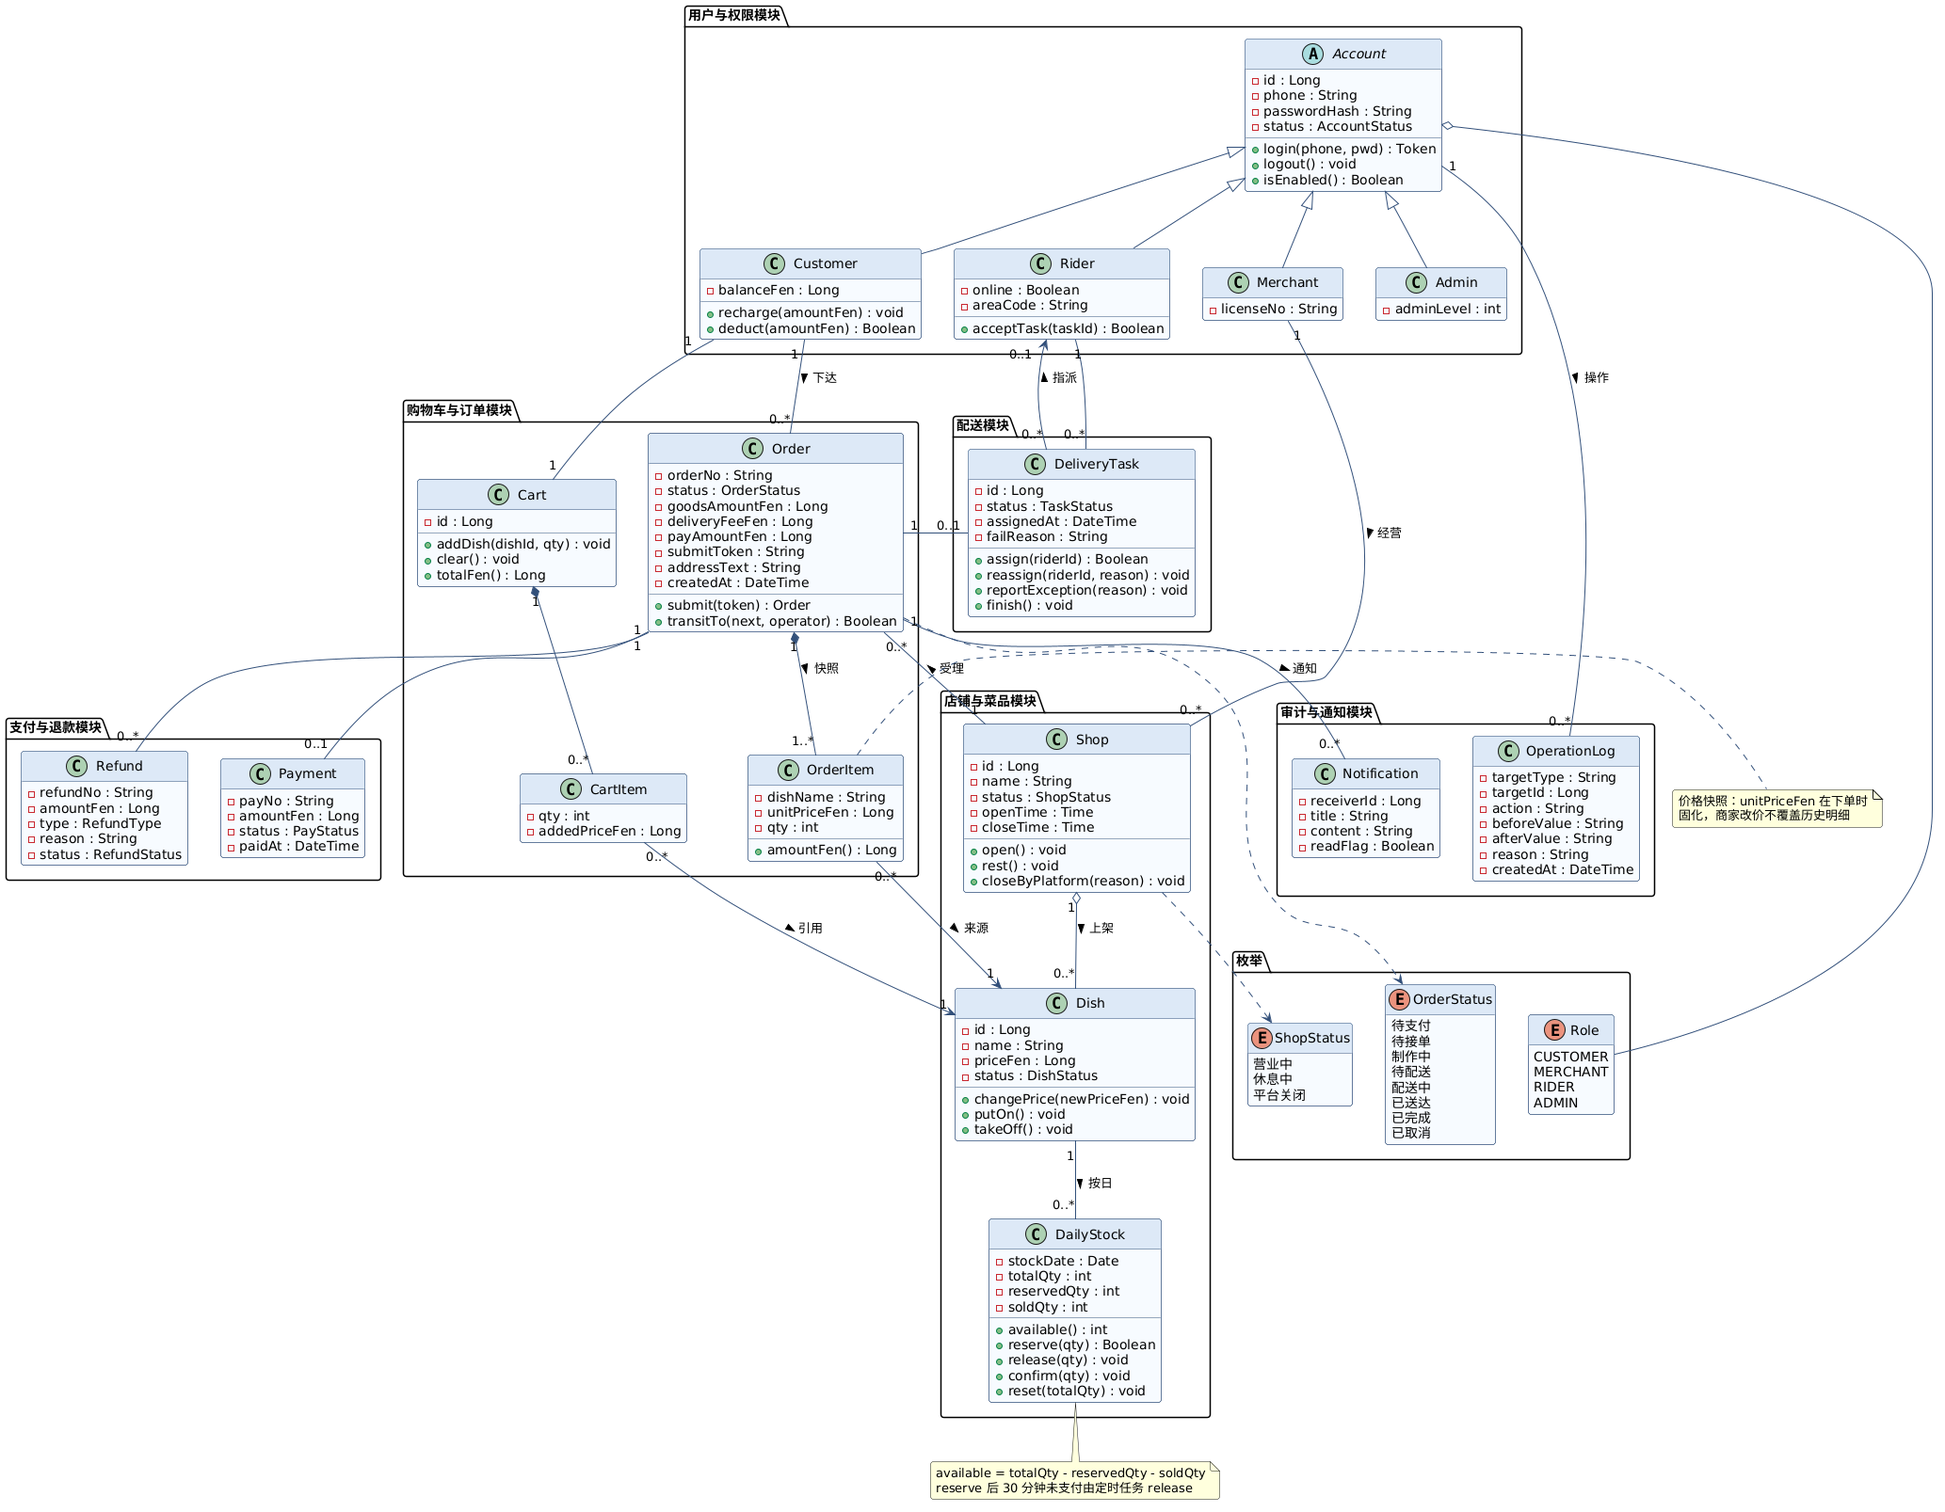
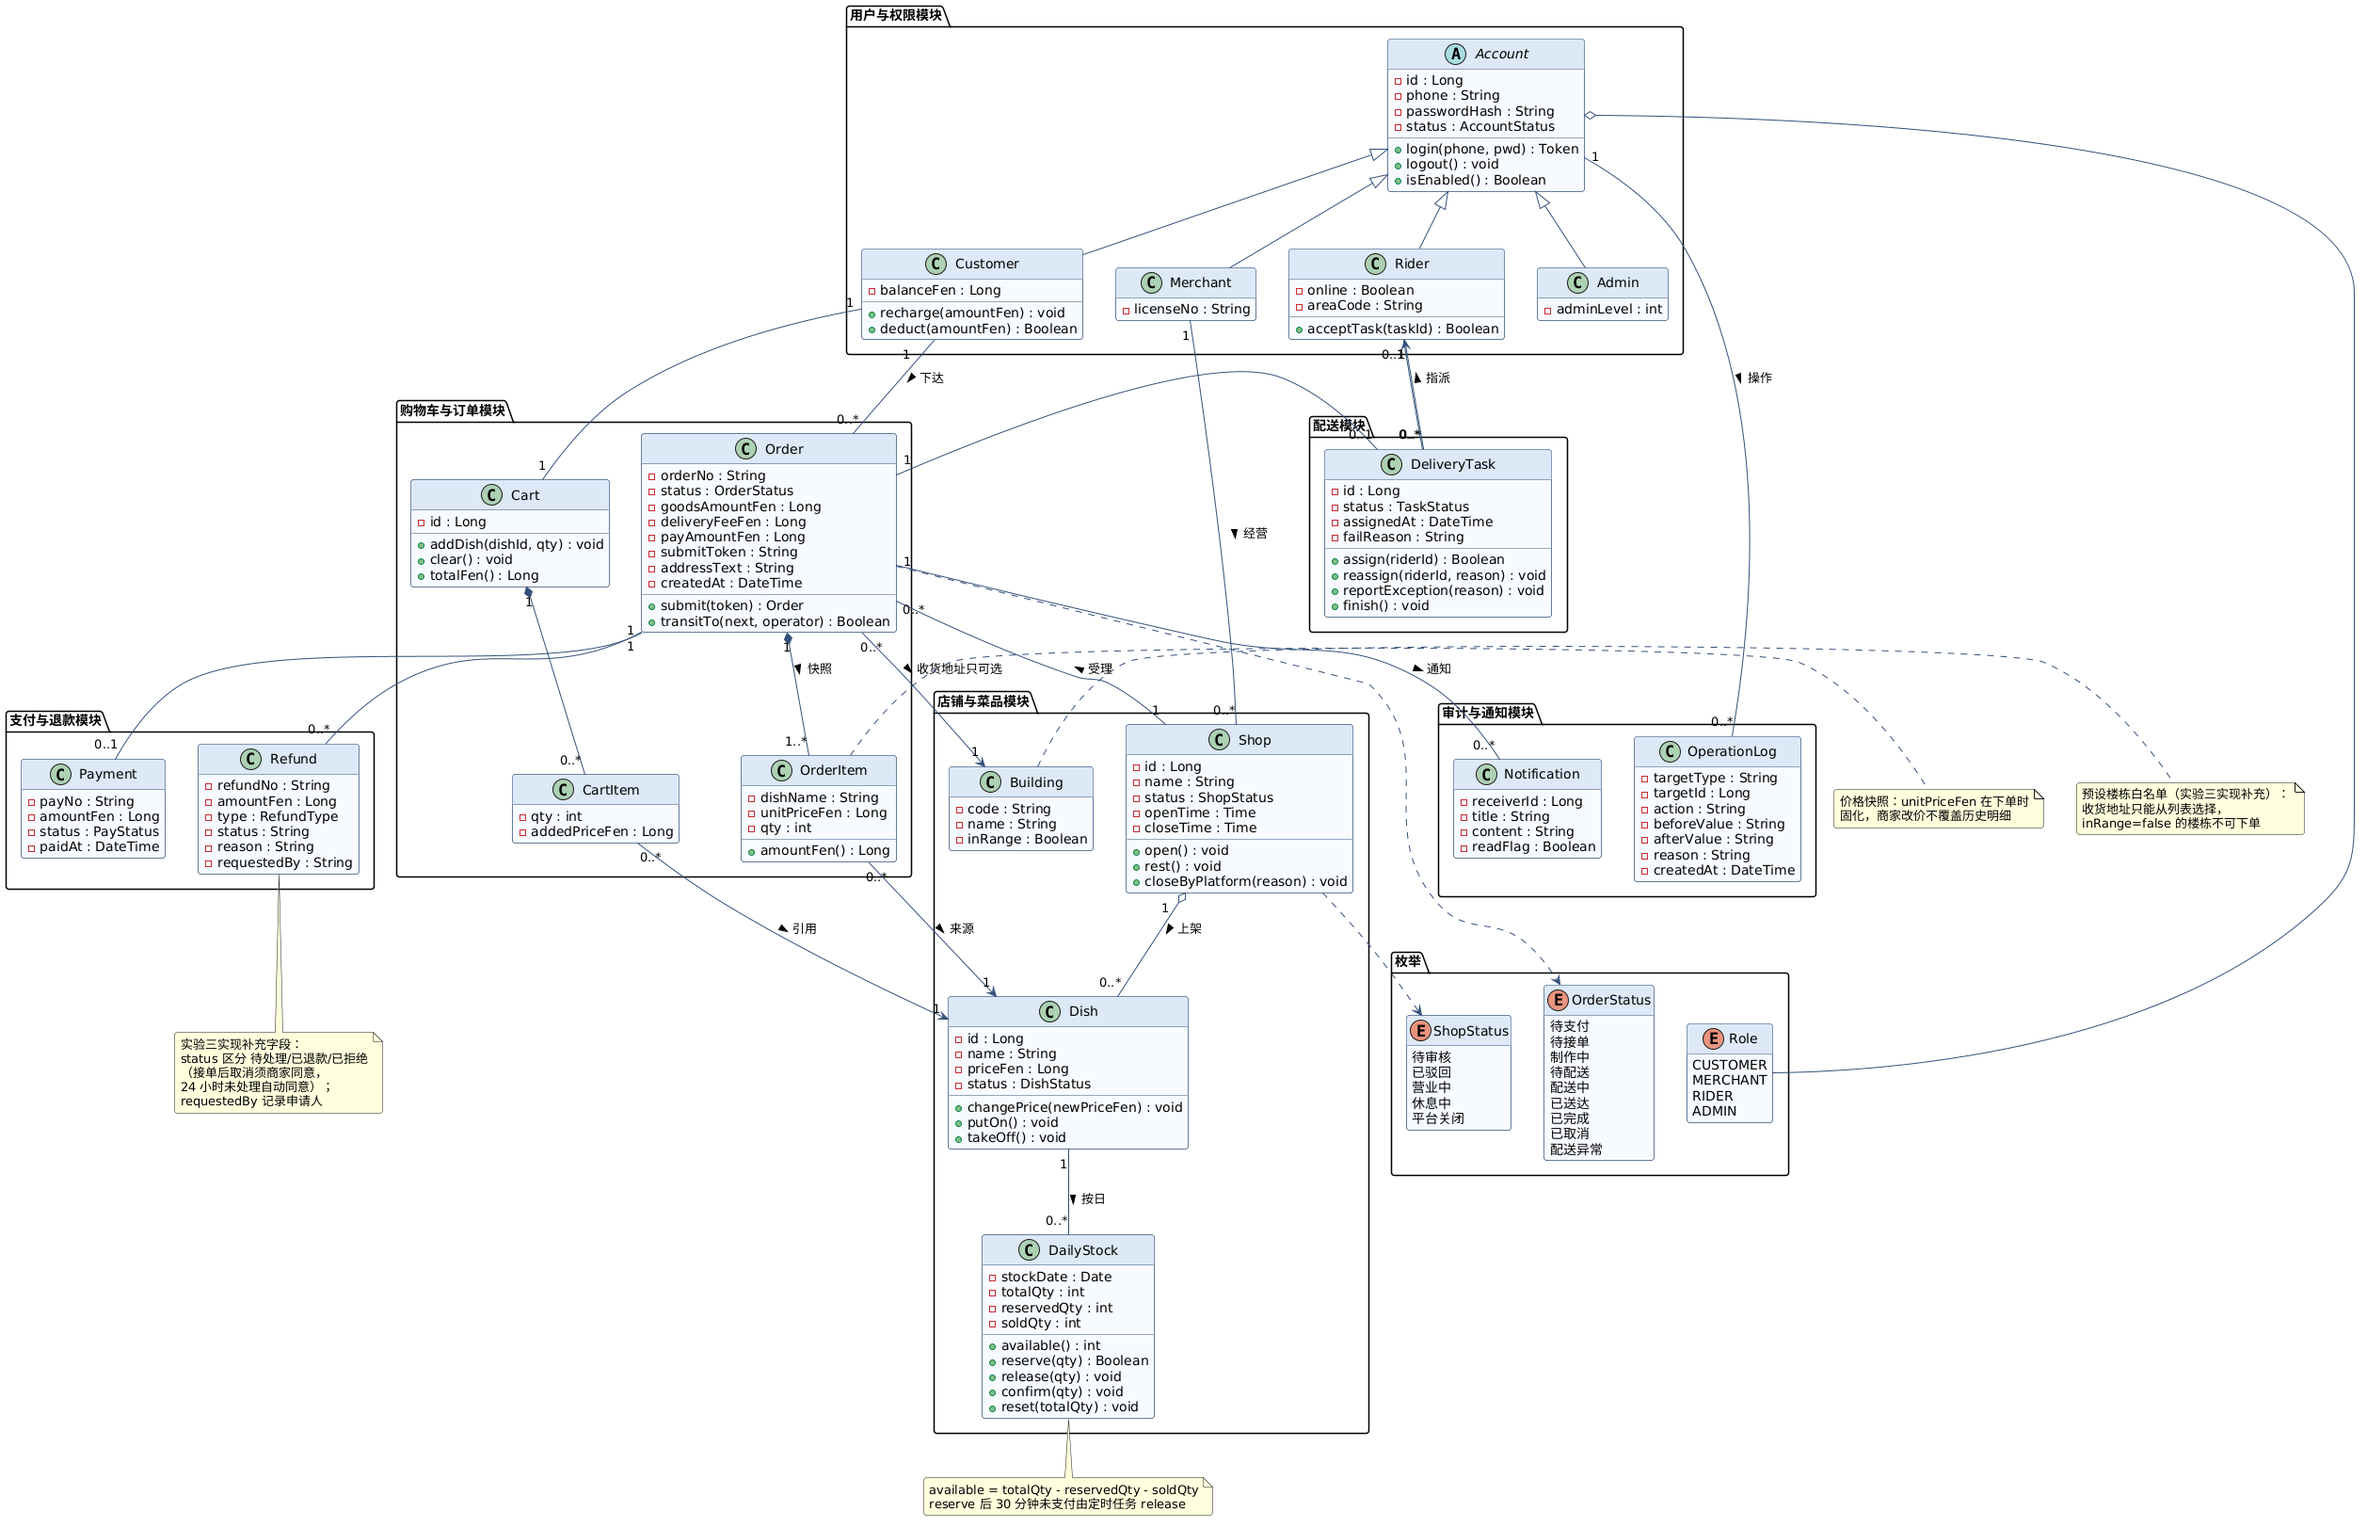
docs: 按实验三实现回改实验二类图并重渲染
- OrderStatus 补「配送异常」挂起态；ShopStatus 补待审核/已驳回前置态
- 新增 Building 预设楼栋类（REQ-008 地址白名单）；Refund 补 status/requestedBy 字段
- 注明为实验三实现补充，保持与代码一致

diff --git a/lab3/ai_log.md b/lab3/ai_log.md
@@ -72,3 +72,31 @@
 - 模型返工成本集中在「跨实体状态一致性」与「配置/环境差异」两类问题上；
   纯翻译类工作（类图→dataclass、需求→docstring）一次通过率高。
 
+## 5. PySide6 界面（2026-11-08）
+
+- **任务**：按实验二 11 屏 UI 稿实现四角色桌面端（QSS 复刻橙色视觉），
+  QTimer 心跳驱动调度器与刷新。
+- **模型产出**：theme + login + 四个角色视图 + 主壳，共 7 个文件。
+- **我发现的问题**：①模型给 `.pylintrc` 加了 Qt 信号豁免后，我抽查发现它把
+  一个退款列存成了「布局」而其余三列存「字典」，两种类型混用，刷新时崩溃——
+  离屏冒烟测试（QT_QPA_PLATFORM=offscreen）当场暴露，说明界面代码同样
+  必须有自动化冒烟，不能靠肉眼；②sed 批量改名后有两处引用没跟上，
+  靠 pylint 的 E0602 兜住。
+- **我的处理**：统一四列的数据结构；把「每层写完立即 lint + 冒烟」固化为
+  流程；界面禁用 broad-exception 的理由写进模块 docstring。
+
+## 6. pytest 套件与测试驱动修复（2026-11-08）
+
+- **任务**：把手写验收脚本收编为 pytest 套件（领域单元 + 调度 + 并发 + 集成）。
+- **模型产出**：6 个测试文件 63 个用例。
+- **我发现的问题**：写测试反过来暴露了两个服务层缺陷——骑手完成单统计
+  走了「未完任务」查询导致永远为 0；营业额把未支付订单也计了进去（口径错）。
+  另有一处测试用例自身设计错：想测令牌重放却生成了新令牌，等于没测。
+- **我的处理**：修服务（新增历史任务查询、营业额只计已支付），重写测试并
+  补上「旧令牌 + 已取消订单不复活」「同菜品多行预占失败整单回滚」两条
+  REQ-024/005 的边界。结论：测试不是写完就完，跑红→修服务→跑绿的循环
+  才是测试的价值所在；而「测试通过」不等于「测试测到了」——重放用例
+  第一次就是假通过，是我读了断言语义才发现的。
+- 最终：pytest 63 通过、pylint 10.00/10、端到端 32 项全过、全库 6939 行。
+
+
